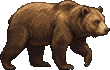
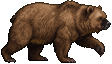
灰熊改用 Gemini 第二輪的綠底圖（站、走路兩格、揮掌、低頭吃；鼻子改深色、毛色調暖棕），戰鬥畫面依姿勢切換
Claude-Session: https://claude.ai/code/session_01HkqM82v9towmCBuEomSQC3

diff --git a/prototypes/hd2d_tactical/prep_grizzly.py b/prototypes/hd2d_tactical/prep_grizzly.py
@@ -1,0 +1,180 @@
+"""灰熊的 HD-2D 素材處理（2026-11-06）。
+
+來源：Gemini 出的圖（arts/hd2d_2026-11-06/）。第二輪的綠底 4 張是同一隻熊，當正式的基準：
+r2_stand（站）、r2_walk_a（走路，前腳抬起）、r2_walk_b（走路，另一步）、r2_swipe（揮掌、張嘴吼）；
+低頭吃還沒有綠底版，先用第一輪的 r1_eat（棋盤格背景），把顏色調成和第二輪一樣。
+
+處理（使用者 2026-11-06：Gemini 改不好的地方能改就直接改）：
+1. 去背：綠底用色鍵＋去掉綠色溢色；棋盤格用從邊緣灌水的方式；只留最大的一塊（去掉雜點、揮動線）。
+2. 鼻子：第二輪是粉紅鼻子，把鼻頭那一區的粉紅像素換成深黑褐色（嘴裡的紅色不動）。
+3. 顏色：整批乘上同一組 RGB 倍率，讓平均毛色接近第一輪的第 4 張（深一點、偏暖棕）；r1_eat 另外調到和第二輪一樣。
+4. 縮成 32 與 48 兩套（一格 32／48 像素；熊寬約 2.3 格，揮掌含伸出的前掌約 2.45 格、低頭吃約 2.0 格），四周留 1 像素空白。
+
+用法：python3.12 -I prototypes/hd2d_tactical/prep_grizzly.py
+"""
+import os
+from collections import deque
+
+from PIL import Image
+
+ROOT = os.path.dirname(os.path.dirname(os.path.dirname(os.path.abspath(__file__))))
+SRC = os.path.join(ROOT, "arts", "hd2d_2026-11-06")
+OUT = os.path.join(os.path.dirname(os.path.abspath(__file__)), "assets")
+
+# 名稱 → (來源檔, 背景種類, 寬幾格)；寬幾格是照「熊的身體和走路那張一樣大」目測換算（揮掌含伸出的前掌、低頭吃的身體比較短）
+FRAMES = {
+    "grizzly_stand": ("r2_stand.jpg", "green", 2.3),
+    "grizzly_walk": ("r2_walk_a.jpg", "green", 2.3),
+    "grizzly_walk_b": ("r2_walk_b.jpg", "green", 2.3),
+    "grizzly_swipe": ("r2_swipe.webp", "green", 2.45),
+    "grizzly_eat": ("r1_eat.jpg", "checker", 2.0),
+}
+DENSITIES = (32, 48)
+
+
+def largest_blob(alpha, w, h):
+    lab = [0] * (w * h)
+    best, best_n, cur = 0, 0, 0
+    for i in range(w * h):
+        if not alpha[i] or lab[i]:
+            continue
+        cur += 1
+        n = 0
+        q = deque([i])
+        lab[i] = cur
+        while q:
+            j = q.popleft()
+            n += 1
+            x, y = j % w, j // w
+            for k in ((x + 1, y), (x - 1, y), (x, y + 1), (x, y - 1)):
+                if 0 <= k[0] < w and 0 <= k[1] < h:
+                    kk = k[1] * w + k[0]
+                    if alpha[kk] and not lab[kk]:
+                        lab[kk] = cur
+                        q.append(kk)
+        if n > best_n:
+            best, best_n = cur, n
+    return [lab[i] == best for i in range(w * h)]
+
+
+def cut(path, kind):
+    im = Image.open(path).convert("RGB")
+    w, h = im.size
+    px = im.load()
+    alpha = [True] * (w * h)
+    if kind == "green":
+        for y in range(h):
+            for x in range(w):
+                r, g, b = px[x, y]
+                if g > 110 and g > r * 1.3 and g > b * 1.3:
+                    alpha[y * w + x] = False
+    else:
+        bg = [False] * (w * h)
+
+        def isbg(c):
+            r, g, b = c
+            return max(r, g, b) - min(r, g, b) < 22 and min(r, g, b) > 150
+
+        q = deque([(x, 0) for x in range(w)] + [(x, h - 1) for x in range(w)] + [(0, y) for y in range(h)] + [(w - 1, y) for y in range(h)])
+        while q:
+            x, y = q.popleft()
+            if x < 0 or y < 0 or x >= w or y >= h or bg[y * w + x] or not isbg(px[x, y]):
+                continue
+            bg[y * w + x] = True
+            q.extend([(x + 1, y), (x - 1, y), (x, y + 1), (x, y - 1)])
+        alpha = [not v for v in bg]
+    keep = largest_blob(alpha, w, h)
+    out = Image.new("RGBA", (w, h))
+    o = out.load()
+    for y in range(h):
+        for x in range(w):
+            if keep[y * w + x]:
+                r, g, b = px[x, y]
+                if kind == "green" and g > max(r, b):
+                    g = max(r, b)  # 綠色溢色
+                o[x, y] = (r, g, b, 255)
+    return out.crop(out.getbbox())
+
+
+# 鼻頭在圖裡的範圍（左、上、右、下，比例）：揮掌那張前掌伸到更右邊，鼻子在中間偏右
+NOSE_BOX = {"grizzly_swipe": (0.70, 0.0, 0.92, 0.45)}
+
+
+def fix_nose(im, box=(0.84, 0.0, 1.0, 0.65)):
+    """鼻頭範圍裡的粉紅像素換成深黑褐色；嘴裡比較暗的紅色不動。"""
+    w, h = im.size
+    p = im.load()
+    for y in range(int(h * box[1]), int(h * box[3])):
+        for x in range(int(w * box[0]), int(w * box[2])):
+            r, g, b, a = p[x, y]
+            if a == 0:
+                continue
+            pink = r > 150 and g > 105 and r - g > 25 and b > g - 30 and b > 85
+            if pink:
+                v = (r + g + b) / 3.0
+                k = 0.22 + 0.12 * (v - 150) / 105.0
+                p[x, y] = (int(70 * k + 20), int(52 * k + 14), int(46 * k + 12), a)
+    return im
+
+
+def mean_rgb(im):
+    s = [0.0, 0.0, 0.0]
+    n = 0
+    for r, g, b, a in im.getdata():
+        if a:
+            s[0] += r
+            s[1] += g
+            s[2] += b
+            n += 1
+    return [v / max(1, n) for v in s]
+
+
+def apply_gain(im, gain):
+    p = im.load()
+    w, h = im.size
+    for y in range(h):
+        for x in range(w):
+            r, g, b, a = p[x, y]
+            if a:
+                p[x, y] = (min(255, int(r * gain[0])), min(255, int(g * gain[1])), min(255, int(b * gain[2])), a)
+    return im
+
+
+def shrink(im, tw):
+    th = round(im.height * tw / im.width)
+    sm = im.resize((tw, th), Image.BOX)
+    p = sm.load()
+    for y in range(th):
+        for x in range(tw):
+            r, g, b, a = p[x, y]
+            p[x, y] = (r, g, b, 255 if a > 140 else 0)
+    out = Image.new("RGBA", (tw + 2, th + 1))
+    out.alpha_composite(sm, (1, 0))
+    return out
+
+
+def main():
+    cuts = {name: cut(os.path.join(SRC, f), kind) for name, (f, kind, _) in FRAMES.items()}
+    for name in ("grizzly_stand", "grizzly_walk", "grizzly_walk_b", "grizzly_swipe"):
+        fix_nose(cuts[name], NOSE_BOX.get(name, (0.84, 0.0, 1.0, 0.65)))
+    # 目標毛色：第一輪第 4 張（r1_walk）的平均色
+    target = mean_rgb(cut(os.path.join(SRC, "r1_walk.jpg"), "checker"))
+    base = mean_rgb(cuts["grizzly_stand"])
+    gain = [t / max(1.0, b) for t, b in zip(target, base)]
+    for name in ("grizzly_stand", "grizzly_walk", "grizzly_walk_b", "grizzly_swipe"):
+        apply_gain(cuts[name], gain)
+    # 低頭吃：調到和調整後的第二輪一樣
+    new_base = mean_rgb(cuts["grizzly_stand"])
+    eat_gain = [t / max(1.0, b) for t, b in zip(new_base, mean_rgb(cuts["grizzly_eat"]))]
+    apply_gain(cuts["grizzly_eat"], eat_gain)
+    print("毛色倍率", [round(g, 3) for g in gain], "低頭吃", [round(g, 3) for g in eat_gain])
+    for name, (_, _, cells) in FRAMES.items():
+        cuts[name].save(os.path.join(SRC, name + "_src.png"))
+        for d in DENSITIES:
+            out = shrink(cuts[name], round(cells * d))
+            out.save(os.path.join(OUT, "%s_%d.png" % (name, d)))
+            print(name, d, out.size)
+
+
+if __name__ == "__main__":
+    main()

diff --git a/docs/progress.md b/docs/progress.md
@@ -3,6 +3,7 @@
 最後更新：2026-10-20
 
 ## 目前階段
+（2026-11-06）灰熊改用 Gemini 第二輪的綠底 4 張（使用者：免費額度用完，直接套用、能改的直接改）：`prototypes/hd2d_tactical/prep_grizzly.py`（綠幕去背＋去綠色溢色、只留最大的一塊；粉紅鼻子換成深黑褐色〔揮掌那張的鼻子範圍另外設〕；整批乘同一組 RGB 倍率〔0.86, 0.855, 0.975〕讓毛色接近第一輪第 4 張；低頭吃沿用第一輪第 5 張、調到同樣的毛色；縮成 32／48，走路、站寬 2.3 格，揮掌 2.45 格、低頭吃 2.0 格）。戰鬥畫面的姿勢：沒動 stand、上一回合有移動 walk／walk_b 輪流、在吃 eat、預告看起來是揮掌或咬 swipe。來源圖在 `arts/hd2d_2026-11-06/`（r2_*、r1_*）。
 （2026-11-06）灰熊的 Gemini 圖先接進戰鬥畫面（使用者要求先看效果）：第 4 張走路、第 5 張低頭吃、第 9 張揮掌（去棋盤格背景、只留最大的一塊〔去掉揮動線〕、縮成 32／48：走路與吃寬 74／110、揮掌 87／130），原圖去背後在 `arts/hd2d_2026-11-06/`；`combat_hd2d.json` 的 `hd2d_poses`：在吃 eat、預告看起來是揮掌或咬 swipe（看 looks，不洩漏假動作）、其他 walk。正式版等 Gemini 照回饋整套重畫（`docs/art-request-hd2d-2026-11-06.md`）。
 （2026-11-06）Phase 2k 戰術戰鬥接進主遊戲寫入 SPEC（使用者同意）。CLAUDE.md 任務順序加第 19 項。
 - [ ] Phase 2k 戰術戰鬥接進主遊戲
